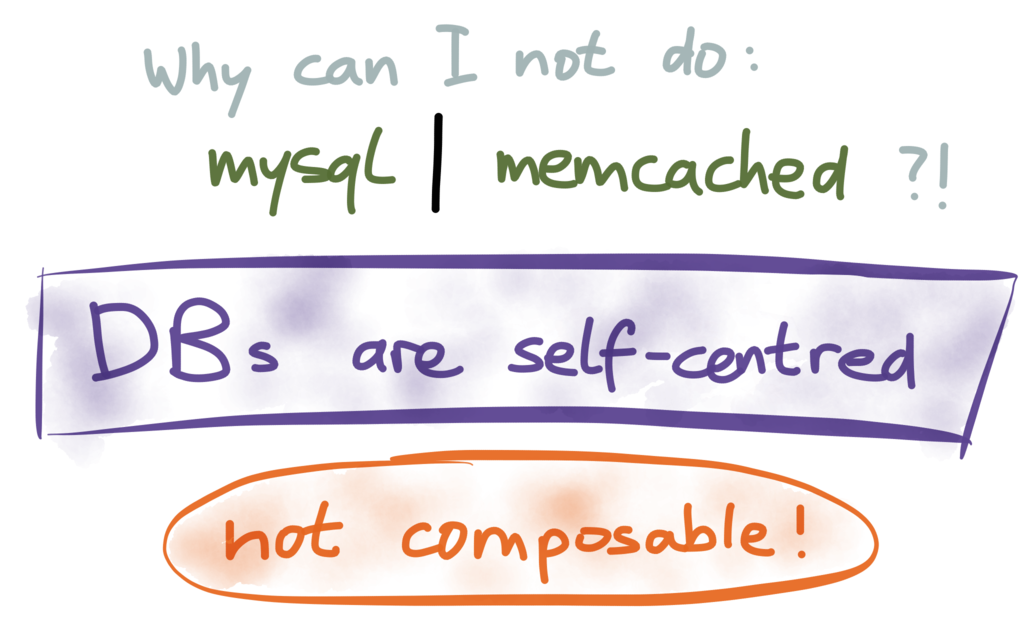
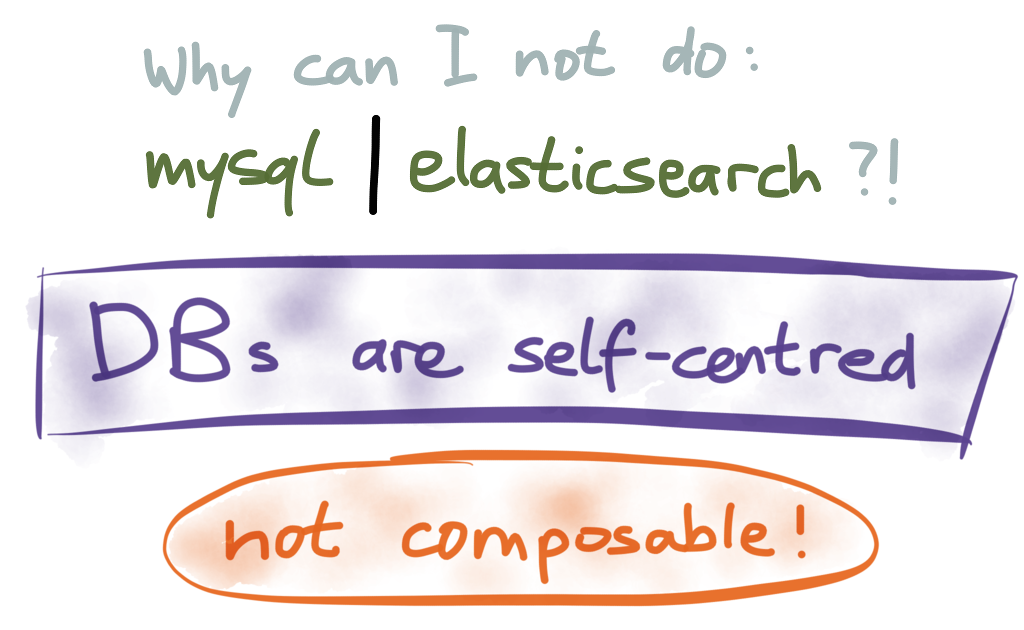
Rebuild site

Changed region(s): [[0.125, 0.181, 0.9375, 0.3619]]

diff --git a/static/unix-philosophy-draft.html b/static/unix-philosophy-draft.html
@@ -2,7 +2,7 @@
 <html xmlns="http://www.w3.org/1999/xhtml" xml:lang="en" lang="en">
 <head profile="http://gmpg.org/xfn/11">
     <meta http-equiv="Content-Type" content="text/html; charset=utf-8"/>
-    <title>The Unix Philosophy of distributed data &mdash; Martin Kleppmann&rsquo;s blog</title>
+    <title>Kafka, Samza, and the Unix philosophy of distributed data &mdash; Martin Kleppmann&rsquo;s blog</title>
     <link rel="stylesheet" type="text/css" media="screen, print, handheld" href="/css/typography.css" />
 <link rel="stylesheet" type="text/css" media="screen" href="/css/style.css" />
 <link rel="stylesheet" type="text/css" media="all" href="/css/pygments-default.css" />
@@ -44,10 +44,10 @@
 
         <div class="wrapper">
             <div id="content">
-                <a class="twitter-share-button" href="https://twitter.com/share" data-text="The Unix Philosophy of distributed data"
+                <a class="twitter-share-button" href="https://twitter.com/share" data-text="Kafka, Samza, and the Unix philosophy of distributed data"
                     data-via="martinkl" data-related="martinkl" data-size="large" data-count="none">Tweet</a>
 
-                <h1>The Unix Philosophy of distributed data</h1>
+                <h1>Kafka, Samza, and the Unix philosophy of distributed data</h1>
 
                 <p>One of the things I realised while doing research for <a href="http://dataintensive.net/">my book</a> is that
 contemporary software engineering still has a lot to learn from the 1970s. As we’re in such
@@ -63,8 +63,11 @@ data systems learnt a thing or two from Unix.</p>
 
 <p><img src="/2015/08/unixphil-01.png" width="550" height="412" /></p>
 
-<p>You’ve probably seen the power of Unix tools before – but to get started, let me give you
-a concrete example that we can talk about.</p>
+<p>In particular, I’m going to argue that there are a lot of similarities between Unix pipes and Apache
+Kafka, and that this similarity enables good architectural styles for large-scale applications. But
+before we get into that, let me remind you of the foundations of the Unix philosophy. You’ve
+probably seen the power of Unix tools before – but to get started, let me give you a concrete
+example that we can talk about.</p>
 
 <p>Say you have a web server that writes an entry to a log file every time it serves a request. For
 example, using the nginx default access log format, one line of the log might look like this:</p>
@@ -74,14 +77,14 @@ example, using the nginx default access log format, one line of the log might lo
 10_9_5) AppleWebKit/537.36 (KHTML, like Gecko) Chrome/40.0.2214.115 Safari/537.36"
 </code></pre>
 
-<p>(That is actually one line, it’s only broken onto multiple lines here for readability.) This line of
-the log indicates that on 27 February 2015 at 17:55:11 UTC, the server received a request for the
+<p>(That is actually one line, it’s only broken up into multiple lines here for readability.) This line
+of the log indicates that on 27 February 2015 at 17:55:11 UTC, the server received a request for the
 file <code>/css/typography.css</code> from the client IP address 216.58.210.78. It then goes on to note various
 other details, including the browser’s user-agent string.</p>
 
 <p>Various tools can take these log files and produce pretty reports about your website traffic, but
-for the sake of exercise, let’s build our own, using basic Unix tools. Let’s determine the 5 most
-popular URLs on our website. To start with, we need to extract the path of the URL that was
+for the sake of the exercise, let’s build our own, using basic Unix tools. Let’s determine the
+5 most popular URLs on our website. To start with, we need to extract the path of the URL that was
 requested, for which we can use <code>awk</code>.</p>
 
 <p><code>awk</code> doesn’t know about the format of nginx logs – it just treats the log file as text. By
@@ -237,10 +240,11 @@ procedural language such as <a href="http://www.oracle.com/technetwork/database/
 <a href="https://blog.heroku.com/archives/2013/6/5/javascript_in_your_postgres">JavaScript</a>). However, the
 things you can do in stored procedures are limited.</p>
 
-<p>Other extension points in some databases are support for custom datatypes (this was one of the early
-<a href="http://db.cs.berkeley.edu/papers/ERL-M85-95.pdf">design goals of Postgres</a>), or pluggable storage
-engines. Essentially, these are plugin APIs: you can run your code in the database server, provided
-that your module adheres to a plugin API exposed by the database server for a particular purpose.</p>
+<p>Other extension points in some databases are support for custom data types (this was one of the
+early <a href="http://db.cs.berkeley.edu/papers/ERL-M85-95.pdf">design goals of Postgres</a>), or pluggable
+storage engines. Essentially, these are plugin APIs: you can run your code in the database server,
+provided that your module adheres to a plugin API exposed by the database server for a particular
+purpose.</p>
 
 <p>This kind of extensibility is not the same as the arbitrary composability we saw with Unix tools.
 The plugin API is totally controlled by the database server, and subordinate to it. Your extension
@@ -275,12 +279,13 @@ full-text search, graph indexes for connected data, machine learning systems for
 engines, a push mechanism for notifications, various different cached representations of the data
 for fast reads, and so on.</p>
 
-<p>There is no way that a single monolithic database can provide all of those capabilities. There is no
-<a href="https://cs.brown.edu/~ugur/fits_all.pdf">“one size fits all” database</a>; rather, there are various
-different data storage and indexing systems that provide individual capabilities that you need. For
-example, you may take the same data and store it in a relational database for random access, in
-Elasticsearch for full-text search, in a columnar format in Hadoop for analytics, and cached in
-a denormalised form in memcached.</p>
+<p>A general-purpose database may try to do all of those things in one product
+(<a href="https://cs.brown.edu/~ugur/fits_all.pdf">“one size fits all”</a>), but in all likelihood it will not
+perform as well as a tool that is specialized for one particular purpose. In practice, you can often
+get the best results by combining various different data storage and indexing systems: for example,
+you may take the same data and store it in a relational database for random access, in Elasticsearch
+for full-text search, in a columnar format in Hadoop for analytics, and cached in a denormalized
+form in memcached.</p>
 
 <p>When you need to integrate different databases, the lack of Unix-style composability is a severe
 limitation. (I’ve
@@ -370,6 +375,10 @@ both sides of the connection are up, and it has
 <a href="http://blog.netherlabs.nl/articles/2009/01/18/the-ultimate-so_linger-page-or-why-is-my-tcp-not-reliable">somewhat messy</a>
 edge case semantics. TCP is good, but by itself it’s too low-level to serve as a distributed pipe
 implementation.</li>
+  <li>A Unix pipe is designed to have a single sender process, and a single recipient. You can’t use
+pipes to send output to several processes, or to collect input from several processes. (You can
+branch a pipeline with <a href="http://linux.die.net/man/1/tee"><code>tee</code></a>, but a pipe itself is always
+one-to-one.)</li>
   <li>ASCII text (or rather, UTF-8) is great for making data easily explorable, but it quickly gets
 messy. Every process needs to be set up with its own input parsing: first breaking the byte stream
 into records (usually separated by newline, though some advocate <code>0x1e</code>, the <a href="https://ronaldduncan.wordpress.com/2009/10/31/text-file-formats-ascii-delimited-text-not-csv-or-tab-delimited-text/">ASCII record
@@ -378,8 +387,9 @@ Then a record needs to be broken up into fields, like the <code>$7</code> in the
 beginning. Separator characters that appear in the data need to be escaped somehow. Even
 a fairly simple tool like <a href="http://unixhelp.ed.ac.uk/CGI/man-cgi?xargs"><code>xargs</code></a> has about half
 a dozen command-line options to specify how its input should be parsed. Text-based interfaces work
-tolerably well, but in retrospect, I am pretty sure this is not what you’d design if you were
-starting out from scratch.</li>
+tolerably well, but in retrospect, I am pretty sure that a richer data model with
+<a href="http://radar.oreilly.com/2014/11/the-problem-of-managing-schemas.html">explicit schemas</a>
+would have worked better.</li>
   <li>Unix processes are generally assumed to be fairly short-running. For example, if a process
 in the middle of a pipeline crashes, there is no way for it to resume processing from its input
 pipe – the entire pipeline fails and must be re-run from scratch. That’s no problem if the
@@ -396,16 +406,20 @@ benefits.</p>
 <a href="http://kafka.apache.org/">Kafka</a> and <a href="http://samza.apache.org/">Samza</a>, two open source projects
 that work together to provide distributed stream processing.</p>
 
-<p>As you probably already know from other posts on this blog, Kafka is a scalable distributed message
-broker, and Samza is a framework that lets you write code to consume and produce data streams.</p>
+<p>As you probably already know from
+<a href="http://www.confluent.io/blog/stream-data-platform-1/">other</a>
+<a href="http://www.confluent.io/blog/using-logs-to-build-a-solid-data-infrastructure-or-why-dual-writes-are-a-bad-idea/">posts</a>
+on this blog, Kafka is a scalable distributed message broker, and Samza is a framework that lets you
+write code to consume and produce data streams.</p>
 
 <p><img src="/2015/08/unixphil-25.png" width="550" height="412" /></p>
 
 <p>In fact, when you look at it through the Unix lens, Kafka looks quite like the pipe that connects
 the output of one process to the input of another. And Samza looks quite like a standard library
 that helps you read <code>stdin</code> and write <code>stdout</code> (and a few helpful additions, such as a deployment
-mechanism, <a href="http://samza.apache.org/learn/documentation/0.9/container/state-management.html">state management</a>,
-metrics and monitoring).</p>
+mechanism,
+<a href="http://samza.apache.org/learn/documentation/0.9/container/state-management.html">state management</a>,
+metrics, and monitoring).</p>
 
 <p>The style of stream processing jobs that you can write with Kafka and Samza closely follows the Unix
 tradition of small, composable tools:</p>
@@ -424,6 +438,12 @@ messages from one stream processing job to another.</li>
 <ul>
   <li>The single-machine limitation is lifted: Kafka itself is distributed by default, and any stream
 processors that use it can also be distributed across multiple machines.</li>
+  <li>A Unix pipe connects exactly one process output with exactly one process input, whereas a stream
+in Kafka can have many producers and many consumers. Many inputs is important for services that
+are distributed across multiple machines, and many outputs makes Kafka more like a broadcast
+channel. This is very useful, since it allows the same data stream to be consumed independently
+for several different purposes (including monitoring and audit purposes, which are often outside
+of the application itself). Kafka consumers can come and go without affecting other consumers.</li>
   <li>Kafka also provides good fault tolerance: data is replicated across multiple Kafka nodes, so if
 one node fails, another node can automatically take over. If a stream processor node fails and is
 restarted, it can resume processing at its last checkpoint.</li>
@@ -453,27 +473,22 @@ mess. Since messages are coarser-grained and self-contained, they can be safely 
 making it safe for multiple processes to concurrently write to the same stream.</li>
   <li>Unix pipes are just a small in-memory buffer, whereas Kafka durably writes all messages to disk.
 In this regard, Kafka is less like a pipe, and more like one process writing to a temporary file,
-while another process continuously reads that file using <code>tail -f</code>. Kafka’s approach provides
-better fault tolerance, since it allows a consumer to fail and restart without skipping messages.
-Kafka automatically splits those ‘temporary’ files into segments and garbage-collects old segments
-on a configurable schedule.</li>
+while several other processes continuously read that file using <code>tail -f</code> (each consumer tails the
+file independently). Kafka’s approach provides better fault tolerance, since it allows a consumer
+to fail and restart without skipping messages. Kafka automatically splits those ‘temporary’ files
+into segments and garbage-collects old segments on a configurable schedule.</li>
   <li>In Unix, if the consuming process of a pipe is slow to read the data, the buffer fills up and the
 sending process is blocked from writing to the pipe. This is a kind of backpressure. In Kafka, the
 producer and consumer are more decoupled: a slow consumer has its input buffered, so it doesn’t
-slow down the producer or other consumers. As long as the buffer fits within your available disk
-space, the slow consumer can catch up later. This makes the system less sensitive to individual
-slow components, and more robust overall.</li>
-  <li>A Unix pipe connects exactly one process output with exactly one process input (you can branch
-a pipeline with <a href="http://linux.die.net/man/1/tee"><code>tee</code></a>, but a pipe itself is always one-to-one).
-By contrast, a Kafka stream can have many producers and many consumers, making it more like
-a broadcast channel. This is very useful, since it allows the same data stream to be consumed
-independently for several different purposes (including monitoring and audit purposes, which are
-often outside of the application itself).</li>
+slow down the producer or other consumers. As long as the buffer fits within Kafka’s available
+disk space, the slow consumer can catch up later. This makes the system less sensitive to
+individual slow components, and more robust overall.</li>
   <li>A data stream in Kafka is called a <em>topic</em>, and you can refer to it by name (which makes it more
 like a Unix <a href="http://vincebuffalo.com/2013/08/08/the-mighty-named-pipe.html">named pipe</a>.
-A pipeline of Unix programs is usually started all at once, but a long-running application has
-bits added, removed or replaced gradually over time. This means your pipes need names, so that
-you can tell the system what you want to connect to.</li>
+A pipeline of Unix programs is usually started all at once, so the pipes normally don’t need
+explicit names. On the other hand, a long-running application usually has bits added, removed or
+replaced gradually over time, so you need names in order to tell the system what you want to
+connect to. Naming also helps with discovery and management.</li>
 </ul>
 
 <p>Despite those differences, I still think it makes sense to think of Kafka as Unix pipes for
@@ -525,74 +540,14 @@ teams.</p>
 
 <p><img src="/2015/08/unixphil-30.png" width="550" height="412" /></p>
 
-<p>This idea of decomposing a large application into loosely coupled components is reminiscent of
-microservices. Indeed, many of the goals are the same, and microservices
-<a href="http://www.infoq.com/articles/microservices-intro">have also been compared to Unix tools</a>. So what
-should you be using?</p>
-
-<p>Microservices are great for gathering together various pieces of information that need to be shown
-to the user as part of a user’s web request. These requests are usually <em>synchronous</em>, i.e. they
-need to complete before the response can be sent to the user. Such service calls are on the critical
-path to getting the page rendered, so you need them to be always fast and reliable, otherwise the
-user experience is degraded.</p>
-
-<p>However, not everything has to be on that critical path. Many metrics, monitoring, analytics or
-recommendation systems just need to find out about what is happening, but they don’t immediately
-feed into the response to the user. It’s better to get those things off the critical path and into
-<em>asynchronous</em> background processes, so that they don’t slow down the user’s request unnecessarily.
-For such use cases, stream processing works better.</p>
-
-<p><img src="/2015/08/unixphil-31.png" width="550" height="412" /></p>
-
-<p>Here are a few points for comparing microservices and stream processing:</p>
-
-<ul>
-  <li>
-    <p>As previously mentioned, Kafka acts as a buffer for stream processors, so if a processor is
-running slow, it doesn’t affect the services that are publishing messages. This is good for
-robustness of the system overall: since the services that publish messages are often the ones
-handling user requests, it’s important to make sure that they is not disrupted by some
-non-critical monitoring job in the background.</p>
-
-    <p>The buffer also ensures that the slow processor can catch up when it recovers. By contrast,
-microservices have no such buffer: if a service is slow to respond, the caller can at best retry
-a few times (perhaps exacerbating the load problem further), but eventually it will have to give
-up, so the message is lost.</p>
-  </li>
-  <li>
-    <p>Since a Kafka topic can have many subscribers, a service can just publish events without caring
-who consumes them. Anyone with appropriate permissions can consume the data, without having to ask
-the publisher for permission.</p>
-
-    <p>Microservices don’t have this decoupling, since service calls are one-to-one: if you want to
-receive a service call every time a user views a page, you have to modify the service that handles
-page views, and make it call your service. You can’t just passively attach to a service (unless
-it has specifically made some provision for registering callbacks or suchlike).</p>
-  </li>
-  <li>
-    <p>Calls to microservices often modify data stored within a service, i.e. they have side-effects. On
-the other hand, stream processing doesn’t modify the original data (if any data is written, it is
-normally written to a new location, not overwriting existing data). This makes stream processing
-more friendly to experimentation: you can try something, write the output to a temporary file, and
-delete it again without doing any harm. With microservices, you’d have to first create a separate
-sandbox copy of your data, since otherwise your experimental requests would be modifying real
-data.</p>
-
-    <p>One way of thinking about this: microservices are a distributed version of object-oriented
-programming (objects encapsulate their instance variables, services encapsulate their databases),
-whereas stream processing is a distributed version of functional programming.</p>
-  </li>
-</ul>
-
-<p><img src="/2015/08/unixphil-32.png" width="550" height="412" /></p>
-
 <p>To wrap up this post, let’s consider a real-life example of how this works at LinkedIn. As you may
 know, companies can post their job openings on LinkedIn, and jobseekers can browse and apply for
 those jobs. What happens if a LinkedIn member (user) views one of those job postings?</p>
 
 <p>It’s very useful to know who has looked at which jobs, so the service that handles job views
 publishes an event to Kafka, saying something like “member 123 viewed job 456 at time 789”. Now that
-this information is in Kafka, it can be used for many good purposes:</p>
+this information is in Kafka, it can be used for many
+<a href="http://sites.computer.org/debull/A12june/A12JUN-CD.pdf">good purposes</a>:</p>
 
 <ul>
   <li><strong>Monitoring systems</strong>: Companies pay LinkedIn to post their job openings, so it’s important that
@@ -623,8 +578,14 @@ in a robust way.</p>
 <a href="http://dataintensive.net/">Designing Data-Intensive Applications</a>, published by
 <a href="http://shop.oreilly.com/product/0636920032175.do">O’Reilly</a>.</em></p>
 
-<p><em>Thank you to <a href="https://twitter.com/jaykreps">Jay Kreps</a> for feedback on a draft of this post, and
-for providing the LinkedIn job view example.</em></p>
+<p><em>Thank you to <a href="https://twitter.com/jaykreps">Jay Kreps</a>,
+<a href="https://twitter.com/gwenshap">Gwen Shapira</a>,
+<a href="http://www.michael-noll.com/">Michael Noll</a>,
+<a href="http://www.ewencp.org/">Ewen Cheslack-Postava</a>,
+<a href="https://www.linkedin.com/in/jasongustafson">Jason Gustafson</a>, and
+<a href="https://twitter.com/jeff_hartley">Jeff Hartley</a>
+for feedback on a draft of this post,
+and thanks also to Jay for providing the LinkedIn job view example.</em></p>
 
 
                 
